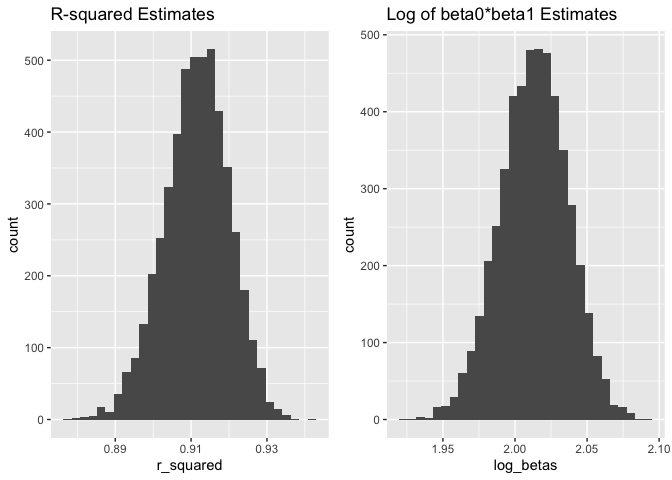
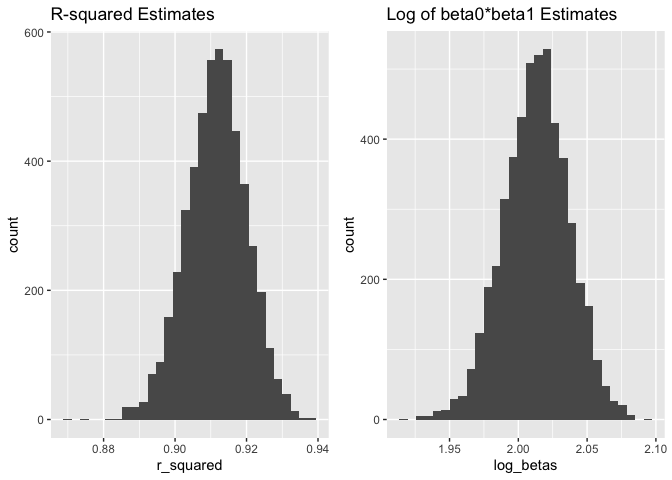
updated interpretations

diff --git a/p8105_hw6_bg2645.md b/p8105_hw6_bg2645.md
@@ -90,11 +90,16 @@ summary()
     ## Multiple R-squared:  0.7004, Adjusted R-squared:    0.7 
     ## F-statistic:  1689 on 6 and 4335 DF,  p-value: < 2.2e-16
 
-  - I chose variables that are known predictors of infant birthweight.
+  - I fit a regression model for birthweight testing how different
+    characterstics impact infant birthweight. When modeling, it is
+    important to select clinically relevant and statistically
+    significant variables for your linear regression model. Thus, I
+    chose variables that are known predictors of infant birthweight.
     `fincome` is a known SES factor, while `gaweeks`, `delwt`, `bhead`
     and `blength` are biological factors, and `smoken` is a behavioral
     factor. Furthermore, after looking at the summary for the fitted
-    model, all the variables chosen were highly significant.
+    model, all the variables chosen were highly significant (p-value
+    \<0.05).
 
 <!-- end list -->
 
@@ -116,7 +121,7 @@ ggplot(aes(x = pred, y = resid)) + geom_point(alpha = 0.5) +
   - The majority of the residuals fall around 0, however there some
     values particularily on the left side of the graph, where the
     predicted birthweight is lower, that have very high residuals and
-    thus are outliers.
+    thus there are outliers.
 
 **Compare your model against a model using length at birth and
 gestational age as predictors (main effects only)**
@@ -326,7 +331,7 @@ bootstrap_results %>%
 
 | rsquared | log(beta0\*beta1) |
 | -------: | ----------------: |
-|    0.911 |             2.013 |
+|    0.912 |             2.013 |
 
 **Plot the distribution of your estimates**
 
@@ -345,16 +350,20 @@ plot1 + plot2
 
 ![](p8105_hw6_bg2645_files/figure-gfm/unnamed-chunk-11-1.png)<!-- -->
 
+  - Based on the histograms, you can see that that distribution of the
+    rsquared estimates and the log (beta0\*beta1) estimates are fairly
+    normally distributed.
+
 <b>Using the 5000 bootstrap estimates, identify the 2.5% and 97.5%
 quantiles to provide a 95% confidence interval for rsquared and
-log(beta0\*beta1). <b>
+log(beta0\*beta1). </b>
 
 ``` r
 quantile(pull(bootstrap_results, r_squared), probs = c(0.025, 0.975)) 
 ```
 
     ##      2.5%     97.5% 
-    ## 0.8937692 0.9272326
+    ## 0.8941338 0.9274100
 
   - Thus, the 95% CI for rsquared is (0.894, 0.927).
 
@@ -365,7 +374,7 @@ quantile(pull(bootstrap_results, log_betas), probs = c(0.025, 0.975))
 ```
 
     ##     2.5%    97.5% 
-    ## 1.965776 2.057837
+    ## 1.964858 2.058103
 
   - Thus, the 95% confidence interval for log(beta0\*beta1) is (1.965,
     2.058).
